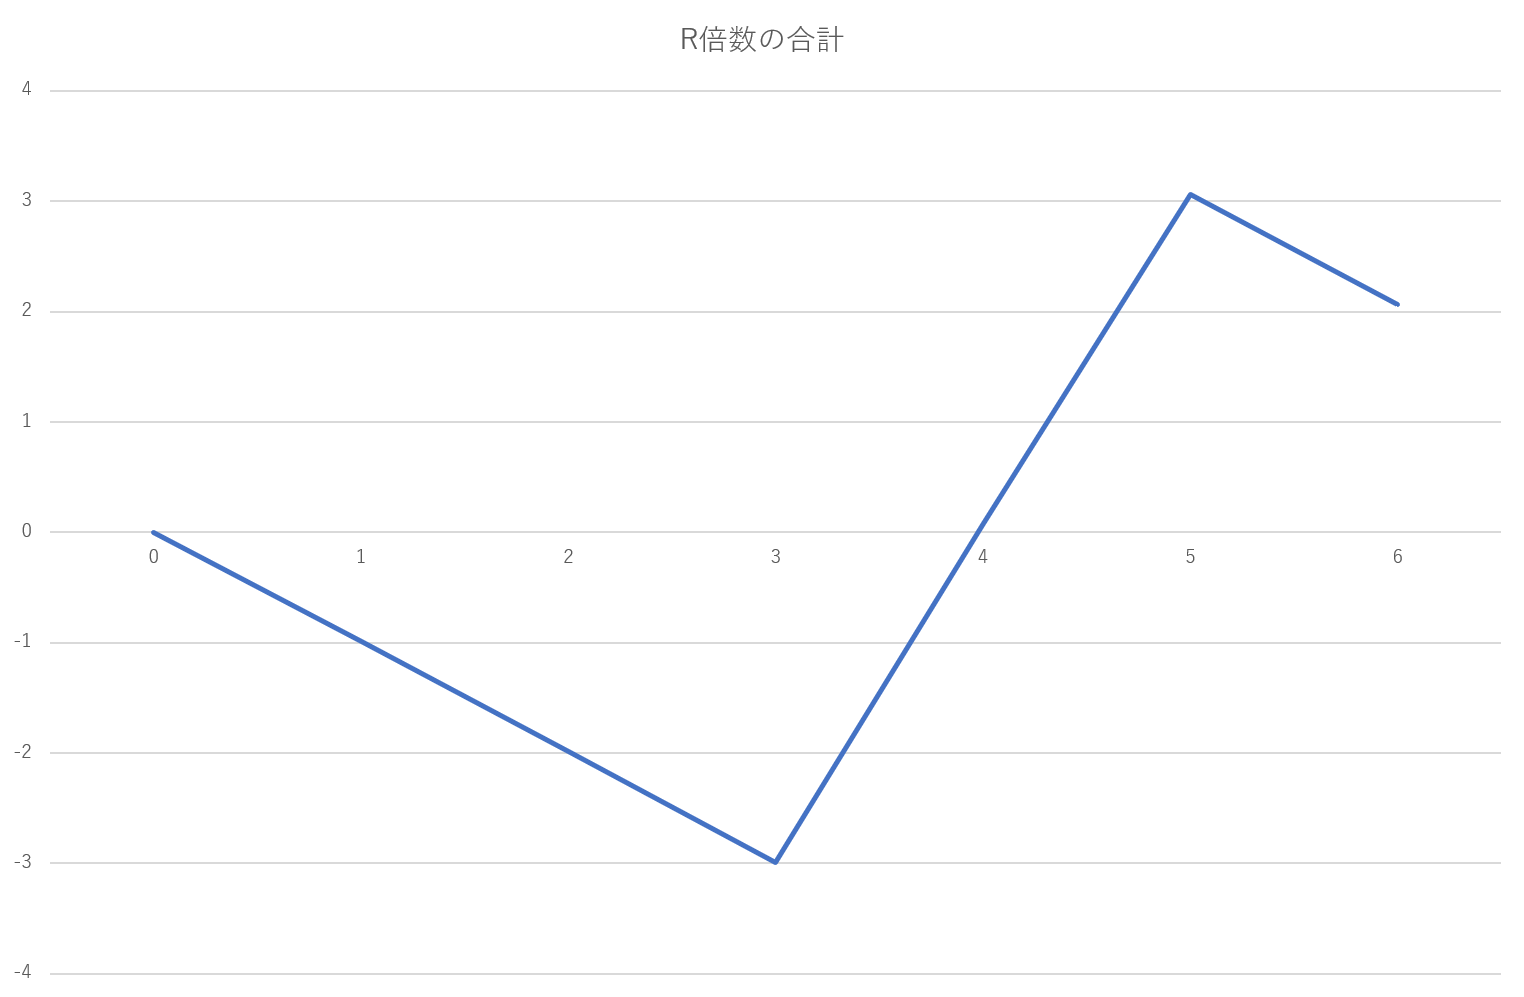
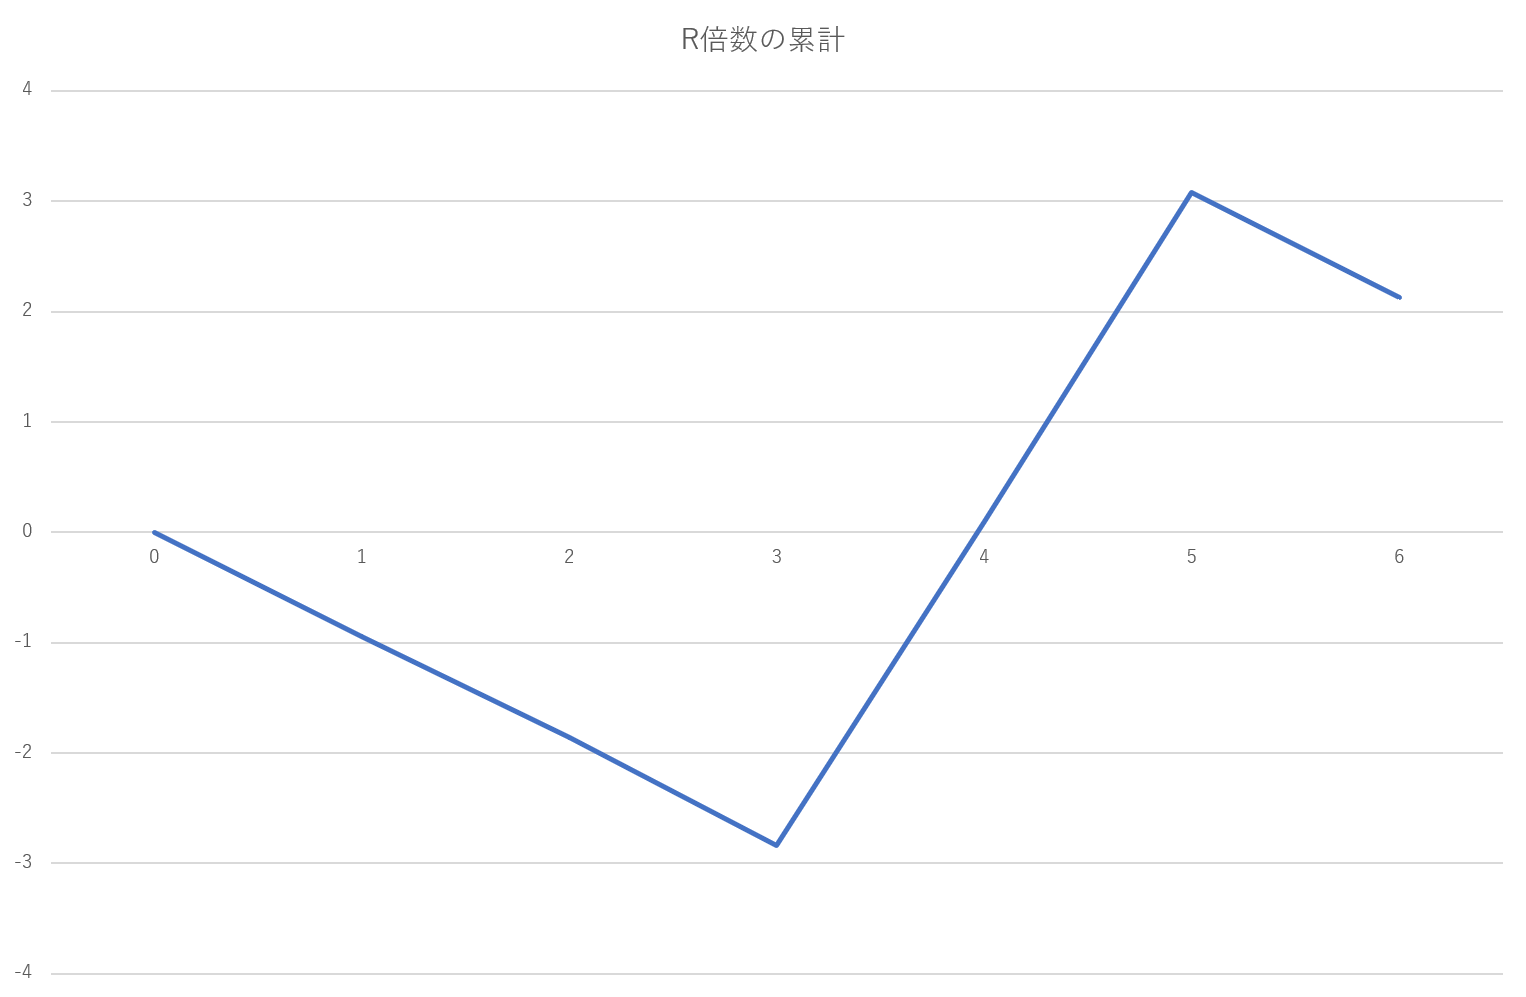
86

diff --git a/content/post/86.md b/content/post/86.md
@@ -15,12 +15,12 @@ tags: ["トレード", "トレードの結果"]
 
 | No.  | R 倍数 |
 | ---: | -----: |
-|    1 |  -0.99 |
-|    2 |  -1.00 |
-|    3 |  -1.00 |
-|    4 |   3.07 |
+|    1 |  -0.94 |
+|    2 |  -0.92 |
+|    3 |  -0.98 |
+|    4 |   2.94 |
 |    5 |   2.98 |
-|    6 |  -1.00 |
+|    6 |  -0.95 |
 
 トレード回数の合計は 6 回です。
 デイトレードよりも長い時間保有していますので、デイトレードと比べると少ないと思います。
@@ -36,17 +36,17 @@ R 倍数はタープ博士が提唱している数字です。
 
 6 回のトレードで 2 回の利益になっていますので、勝率は 33.3% です。
 
-## R 倍数の合計
+## R 倍数の累計
 
-R 倍数の合計は
+R 倍数の累計は
 
 2.06R
 
 になりました。
-これが、 2018 年 1 月に得られた合計の利益になります。
+これが、 2018 年 1 月に獲得した損益になります。
 
 これは、単純に金額にすることができない数字です。
-が、2% の定率の資金管理で、 100 万円の口座を運用したとすると、
+が、2% の定率の資金管理で、 100 万円の口座を運用したとすると、およそ
 
 2% × 100 万円 × 2.06R ＝ 41,200 円
 
